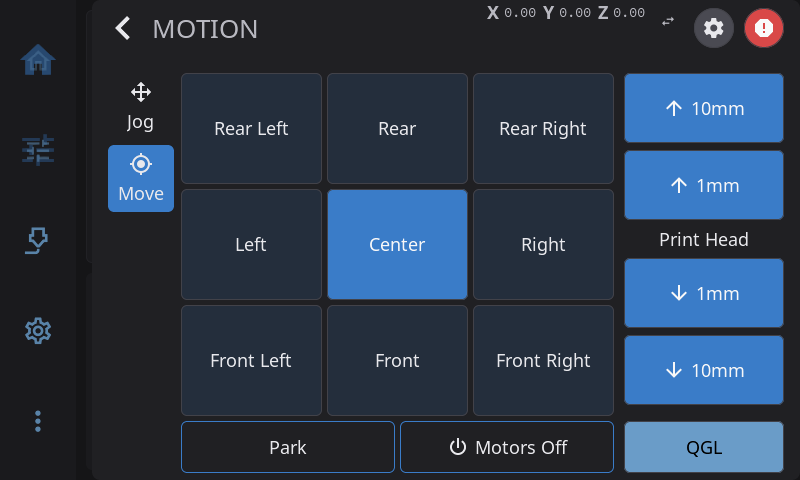
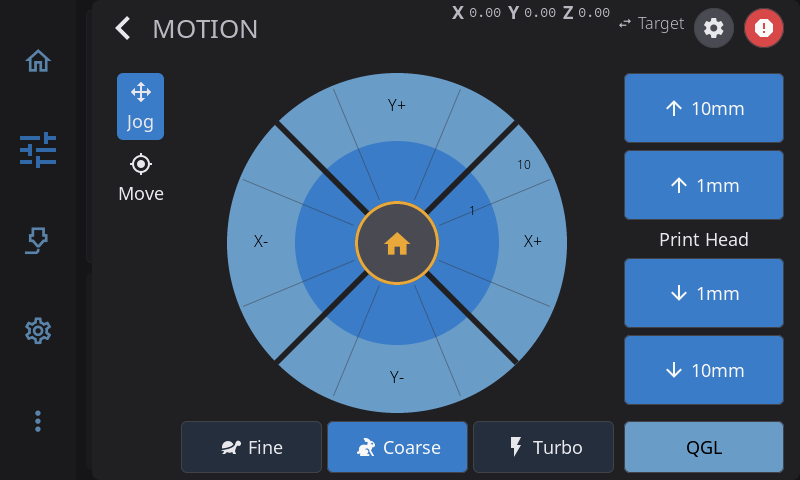
fix(motion): Move-tab presets aim at the print plate, not axis overtravel; Target/Actual chip names the shown position
Presets were 10% in from Klipper's stepper travel, which on the Snapmaker U1 runs Y to 335 past a 270mm plate into the tool docks: Rear Left sent the head to Y 301.5 and crashed. The plate now comes from [bed_mesh] mesh_min/max in configfile.settings (BuildVolume::plate_*), shifted into G-code space and clipped to travel by helix::preset_area(); printers with no rectangular mesh keep travel. The coordinate swap icon gains a Target / Actual word so the mode is readable. Mutation: forcing preset_area to return travel fails the U1 case.

diff --git a/tests/unit/test_motion_presets.cpp b/tests/unit/test_motion_presets.cpp
@@ -121,3 +121,61 @@ TEST_CASE("circular_bed_kinematics names the round-bed machines", "[motion][pres
     CHECK_FALSE(circular_bed_kinematics("corexy"));
     CHECK_FALSE(circular_bed_kinematics(""));
 }
+
+TEST_CASE("motion presets aim at the plate, not axis overtravel", "[motion][presets]") {
+    // Snapmaker U1: Y travels to 335 but the plate ends at 270; the tool docks
+    // fill the rest. homing_origin (-0.088928, -0.016043) shifts G-code space.
+    const AxisBounds machine = known_bounds(0, 271, 0, 335);
+    const AxisBounds gcode = known_bounds(0.088928f, 271.088928f, 0.016043f, 335.016043f);
+    BuildVolume vol;
+    vol.plate_x_min = 3;
+    vol.plate_x_max = 267;
+    vol.plate_y_min = 3;
+    vol.plate_y_max = 267;
+
+    const AxisBounds area = helix::preset_area(machine, gcode, vol);
+    CHECK(area.x_min == Catch::Approx(3.088928).margin(1e-4));
+    CHECK(area.x_max == Catch::Approx(267.088928).margin(1e-4));
+    CHECK(area.y_min == Catch::Approx(3.016043).margin(1e-4));
+    CHECK(area.y_max == Catch::Approx(267.016043).margin(1e-4));
+
+    const auto rear_left = motion_preset_target(MotionPreset::RearLeft, area, false);
+    REQUIRE(rear_left.has_value());
+    CHECK(*rear_left->x == Catch::Approx(29.488928).margin(1e-4));
+    CHECK(*rear_left->y == Catch::Approx(240.616043).margin(1e-4));
+}
+
+TEST_CASE("preset area falls back to travel and never exceeds it", "[motion][presets]") {
+    const AxisBounds travel = known_bounds(0, 235, 0, 235);
+
+    SECTION("no plate declared") {
+        const AxisBounds area = helix::preset_area(travel, travel, BuildVolume{});
+        CHECK(area.x_min == 0.0f);
+        CHECK(area.x_max == 235.0f);
+        CHECK(area.y_max == 235.0f);
+    }
+
+    SECTION("plate wider than travel is clipped to it") {
+        BuildVolume vol;
+        vol.plate_x_min = -10;
+        vol.plate_x_max = 250;
+        vol.plate_y_min = 5;
+        vol.plate_y_max = 230;
+        const AxisBounds area = helix::preset_area(travel, travel, vol);
+        CHECK(area.x_min == 0.0f);
+        CHECK(area.x_max == 235.0f);
+        CHECK(area.y_min == 5.0f);
+        CHECK(area.y_max == 230.0f);
+    }
+
+    SECTION("unknown travel stays unknown") {
+        AxisBounds unknown = travel;
+        unknown.has_y = false;
+        BuildVolume vol;
+        vol.plate_x_min = 3;
+        vol.plate_x_max = 200;
+        vol.plate_y_min = 3;
+        vol.plate_y_max = 200;
+        CHECK_FALSE(helix::preset_area(unknown, unknown, vol).has_y);
+    }
+}

diff --git a/include/motion_presets.h b/include/motion_presets.h
@@ -4,6 +4,7 @@
 #pragma once
 
 #include "axis_move.h"
+#include "printer_detector.h"
 #include "printer_motion_state.h"
 #include "printer_state.h"
 
@@ -34,14 +35,29 @@ enum class MotionPreset {
  * the inscribed radius in their direction - a round bed has no corners, so
  * the diagonal presets sit at 45 degrees instead.
  *
- * @param gcode_bounds The machine's kinematic envelope in G-code space
- *        (PrinterState::get_gcode_axis_bounds()).
+ * @param gcode_bounds The area to place presets in, G-code space
+ *        (preset_area()).
  * @param circular_bed True on a delta/rotary_delta machine (see
  *        circular_bed_kinematics() in printer_state.h).
  * @return nullopt when either axis's bounds are unknown or degenerate; the
  *         caller must skip the move rather than aim at fabricated
  *         coordinates.
  */
+/**
+ * @brief The area Move-tab presets aim at, in G-code space
+ *
+ * The plate the config declares ([bed_mesh] mesh_min/max) when there is one,
+ * clipped to travel; otherwise the whole travel. Axis travel can run past the
+ * plate into tool docks or a purge area, which a preset must never target.
+ *
+ * @param machine_travel toolhead axis limits (PrinterState::get_axis_bounds())
+ * @param gcode_travel the same limits in G-code space
+ *        (PrinterState::get_gcode_axis_bounds())
+ * @param volume build volume holding the declared plate (machine space)
+ */
+AxisBounds preset_area(const AxisBounds& machine_travel, const AxisBounds& gcode_travel,
+                       const BuildVolume& volume);
+
 std::optional<AxisTarget> motion_preset_target(MotionPreset preset, const AxisBounds& gcode_bounds,
                                                bool circular_bed);
 

diff --git a/tests/unit/test_printer_discovery.cpp b/tests/unit/test_printer_discovery.cpp
@@ -1868,6 +1868,29 @@ TEST_CASE("PrinterDiscovery: build volume parsed from configfile.settings steppe
     REQUIRE(discovery.build_volume().z_max == 340.0f);
 }
 
+TEST_CASE("PrinterDiscovery: bed_mesh mesh_min/max declares the plate",
+          "[printer_discovery][build_volume]") {
+    helix::PrinterDiscovery discovery;
+    json settings = {{"stepper_x", {{"position_min", 0.0}, {"position_max", 271.0}}},
+                     {"stepper_y", {{"position_min", 0.0}, {"position_max", 335.0}}},
+                     {"bed_mesh", {{"mesh_min", {3.0, 3.0}}, {"mesh_max", {267.0, 267.0}}}}};
+    REQUIRE(discovery.parse_build_volume(settings));
+    CHECK(discovery.build_volume().y_max == 335.0f);
+    CHECK(discovery.build_volume().plate_x_min == 3.0f);
+    CHECK(discovery.build_volume().plate_x_max == 267.0f);
+    CHECK(discovery.build_volume().plate_y_min == 3.0f);
+    CHECK(discovery.build_volume().plate_y_max == 267.0f);
+
+    // A round bed's mesh is mesh_radius, and a malformed mesh_min is ignored.
+    json delta = {{"stepper_x", {{"position_min", -100.0}, {"position_max", 100.0}}},
+                  {"stepper_y", {{"position_min", -100.0}, {"position_max", 100.0}}},
+                  {"bed_mesh", {{"mesh_radius", 90.0}, {"mesh_min", "3,3"}}}};
+    helix::PrinterDiscovery round;
+    REQUIRE(round.parse_build_volume(delta));
+    CHECK(round.build_volume().plate_x_max == 0.0f);
+    CHECK(round.build_volume().plate_y_max == 0.0f);
+}
+
 TEST_CASE("PrinterDiscovery: sensor toggle command follows a SET_FILAMENT_SENSOR wrapper",
           "[printer_discovery][filament]") {
     helix::PrinterDiscovery discovery;

diff --git a/src/motion_presets.cpp b/src/motion_presets.cpp
@@ -51,6 +51,22 @@ constexpr GridPosition grid_position(MotionPreset preset) {
 
 } // namespace
 
+AxisBounds preset_area(const AxisBounds& machine_travel, const AxisBounds& gcode_travel,
+                       const BuildVolume& volume) {
+    AxisBounds area = gcode_travel;
+    if (volume.plate_x_max <= volume.plate_x_min || volume.plate_y_max <= volume.plate_y_min) {
+        return area;
+    }
+    // machine = gcode + origin, and travel carries both forms of each limit.
+    const float origin_x = machine_travel.x_min - gcode_travel.x_min;
+    const float origin_y = machine_travel.y_min - gcode_travel.y_min;
+    area.x_min = std::max(gcode_travel.x_min, volume.plate_x_min - origin_x);
+    area.x_max = std::min(gcode_travel.x_max, volume.plate_x_max - origin_x);
+    area.y_min = std::max(gcode_travel.y_min, volume.plate_y_min - origin_y);
+    area.y_max = std::min(gcode_travel.y_max, volume.plate_y_max - origin_y);
+    return area;
+}
+
 std::optional<AxisTarget> motion_preset_target(MotionPreset preset, const AxisBounds& gcode_bounds,
                                                bool circular_bed) {
     const auto center_x =

diff --git a/include/printer_discovery.h b/include/printer_discovery.h
@@ -999,6 +999,23 @@ class PrinterDiscovery {
             }
         }
 
+        // The probed area is the plate the head can safely reach; travel
+        // beyond it may hold tool docks or a purge bucket.
+        const auto mesh = settings.find("bed_mesh");
+        if (mesh != settings.end() && mesh->is_object()) {
+            const auto lo = mesh->find("mesh_min");
+            const auto hi = mesh->find("mesh_max");
+            auto is_xy = [](const nlohmann::json& v) {
+                return v.is_array() && v.size() >= 2 && v[0].is_number() && v[1].is_number();
+            };
+            if (lo != mesh->end() && hi != mesh->end() && is_xy(*lo) && is_xy(*hi)) {
+                volume.plate_x_min = (*lo)[0].get<float>();
+                volume.plate_y_min = (*lo)[1].get<float>();
+                volume.plate_x_max = (*hi)[0].get<float>();
+                volume.plate_y_max = (*hi)[1].get<float>();
+            }
+        }
+
         // An all-zero volume is worse than none: build_volume_range heuristics
         // would score it against every printer's window. Only a real extent is
         // worth storing.

diff --git a/src/ui/ui_panel_motion.cpp b/src/ui/ui_panel_motion.cpp
@@ -1265,9 +1265,11 @@ void MotionPanel::handle_preset(helix::MotionPreset preset) {
     }
     // Computed at tap time: bounds can change (settings, calibration) between
     // the panel opening and the tap.
-    const auto target =
-        helix::motion_preset_target(preset, get_printer_state().get_gcode_axis_bounds(),
-                                    helix::circular_bed_kinematics(api->hardware().kinematics()));
+    const auto& ps = get_printer_state();
+    const auto area = helix::preset_area(ps.get_axis_bounds(), ps.get_gcode_axis_bounds(),
+                                         api->hardware().build_volume());
+    const auto target = helix::motion_preset_target(
+        preset, area, helix::circular_bed_kinematics(api->hardware().kinematics()));
     if (!target) {
         NOTIFY_INFO(lv_tr("Axis limits unknown"));
         return;

diff --git a/include/printer_detector.h b/include/printer_detector.h
@@ -101,6 +101,12 @@ struct BuildVolume {
     float z_max = 0.0f;          ///< Maximum Z height (if available)
     float declared_bed_x = 0.0f; ///< Bed X the firmware config declares (0 if none)
     float declared_bed_y = 0.0f; ///< Bed Y the firmware config declares (0 if none)
+    /// Rectangular plate from [bed_mesh] mesh_min/mesh_max, machine space.
+    /// All zero when the config declares none (no bed_mesh, or a round bed).
+    float plate_x_min = 0.0f;
+    float plate_x_max = 0.0f;
+    float plate_y_min = 0.0f;
+    float plate_y_max = 0.0f;
 };
 
 /**

diff --git a/docs/user/guide/motion.md b/docs/user/guide/motion.md
@@ -13,7 +13,7 @@ Open the Motion screen by tapping **Motion** on the Controls panel. It has two t
 The current **X**, **Y**, and **Z** coordinates sit in the header of the Motion screen (in portrait they form a row just under the header). Each axis letter is dimmed while that axis is not homed yet.
 
 - **Tap a coordinate** to open a number pad and send the toolhead straight to that position. Values outside the printer's range are refused with "Value must be between A and B" - nothing moves. If the axis isn't homed yet, the printer homes it first and then makes the move; no extra confirmation is needed.
-- **Tap the swap icon** next to the coordinates to switch what they show: **Commanded** (the position you asked for) or **Actual** (where the nozzle really is, with z-offset, tool offsets and bed mesh correction applied, updating while it moves). The icon lights up while Actual is shown. The choice is remembered separately for each printer.
+- **Tap the Target / Actual chip** next to the coordinates to switch what they show: **Target** (the position you asked for) or **Actual** (where the nozzle really is, with z-offset, tool offsets and bed mesh correction applied, updating while it moves). The chip names the mode on screen and lights up while Actual is shown. The choice is remembered separately for each printer.
 
 The coordinates are greyed out whenever the printer isn't ready - not connected, or still starting up.
 
@@ -87,7 +87,7 @@ The right column has four Z buttons (two large steps and two small steps, up and
 
 ## Move Tab
 
-The **Move** tab replaces the jog pad with a 3x3 grid of named bed positions, laid out like the bed seen from above: the **Rear** row is at the top, the **Front** row at the bottom, and the columns are **Left**, **Center**, and **Right**. The center position is the middle of the bed; the other eight sit about 10% in from the edges, so the toolhead clears the rails and clamps at the extremes. On delta printers the eight outer positions are spread around a circle instead of a rectangle, matching the round bed.
+The **Move** tab replaces the jog pad with a 3x3 grid of named bed positions, laid out like the bed seen from above: the **Rear** row is at the top, the **Front** row at the bottom, and the columns are **Left**, **Center**, and **Right**. The positions cover the print plate, taken from the probing area in your `[bed_mesh]` config, not the full axis travel: many printers can travel past the plate to reach a purge bucket, a wiper or parked tools, and a named position never sends the head there. The center position is the middle of the plate; the other eight sit about 10% in from its edges. Printers with no `[bed_mesh]` section use the axis travel instead. On delta printers the eight outer positions are spread around a circle instead of a rectangle, matching the round bed.
 
 Tap any position and the toolhead moves there in X and Y only - Z is never changed from this grid. If X or Y isn't homed yet, the printer homes first and then makes the move.
 

diff --git a/docs/devel/CHANGELOG_1_1_DRAFT.md b/docs/devel/CHANGELOG_1_1_DRAFT.md
@@ -188,8 +188,10 @@ what gets saved.
   so it stays visible on both tabs (the separate "Act:" line is gone; see the swap icon
   below).
 - **The Move tab sends the toolhead to named bed positions** - a 3x3 grid laid out like the
-  bed seen from above (Rear at the top, Front at the bottom), outer positions 10% in from
-  the edges so the head clears rails and clamps; on a delta the eight outer positions sit
+  bed seen from above (Rear at the top, Front at the bottom), placed on the print plate
+  from the `[bed_mesh]` probing area rather than the full axis travel, so no preset aims
+  at a purge area or tool dock past the plate; outer positions sit 10% in from the plate
+  edges; on a delta the eight outer positions sit
   on a circle instead. Moves are XY only, homing first when needed, and the whole tab is
   disabled while a print runs or is paused, or while the printer is not ready. Park and
   Motors Off sit under the grid.
@@ -199,9 +201,9 @@ what gets saved.
   Settings > Printing > Macro Buttons.
 - **Tap a coordinate in the header to move there** - a number pad opens for that axis, and
   a value outside the printer's range is refused with the allowed range while nothing
-  moves; an unhomed axis is homed first, then moved. The swap icon beside the coordinates
-  toggles between Commanded and Actual position, lights up for Actual, and is remembered
-  per printer.
+  moves; an unhomed axis is homed first, then moved. A Target / Actual chip beside the
+  coordinates names which position is shown and toggles it, lights up for Actual, and is
+  remembered per printer.
 - **Hold to repeat on the jog pad and Z buttons** - after about 0.4s the move repeats
   roughly every 0.15s for as long as you hold; a quick tap is still exactly one move.
 - **Jog limits are quiet, and the edge is visible before you press** - holding into a limit

diff --git a/docs/user/CONFIGURATION.md b/docs/user/CONFIGURATION.md
@@ -702,7 +702,7 @@ Located in the `motion` section. These back the jog pad; set them from the scree
 ### `show_actual_position`
 **Type:** boolean
 **Default:** `false`
-**Description:** What the X/Y/Z coordinates on the Motion screen show when it opens: the commanded position (`false`) or the actual measured position (`true`). Tapping the swap icon next to the coordinates flips it, so this is normally set from the screen rather than by hand. Remembered per printer.
+**Description:** What the X/Y/Z coordinates on the Motion screen show when it opens: the commanded position (`false`) or the actual measured position (`true`). Tapping the Target / Actual chip next to the coordinates flips it, so this is normally set from the screen rather than by hand. Remembered per printer.
 
 ---
 

diff --git a/docs/devel/plans/2026-09-20-motion-panel-enhancements.md b/docs/devel/plans/2026-09-20-motion-panel-enhancements.md
@@ -323,6 +323,11 @@ must also be right: a delta bed is circular, and a corner tap addresses somewher
 toolhead cannot reach. When `PrinterDetector` reports delta kinematics the plate renders
 circular and taps outside the radius clamp to the edge.
 
+**Plate, not travel.** The rendered plate and the clamp are `helix::preset_area()`: the
+`[bed_mesh]` mesh_min/max area clipped to travel, falling back to travel only when no mesh
+is declared. Axis travel can run past the plate into tool docks (U1: Y travels to 335, the
+plate ends at 270), so a map drawn from travel would let a tap drive the head into them.
+
 **Interaction.**
 
 - **Tap** commits immediately.
